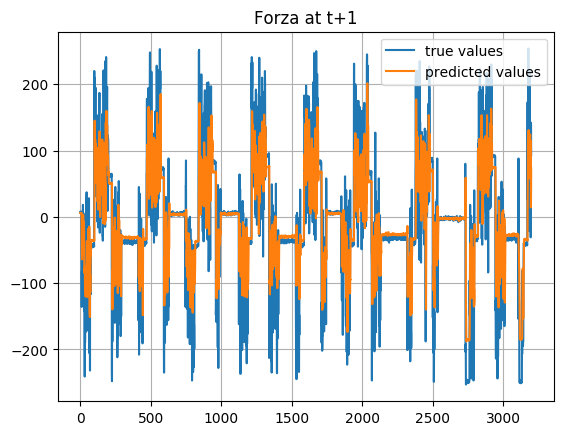
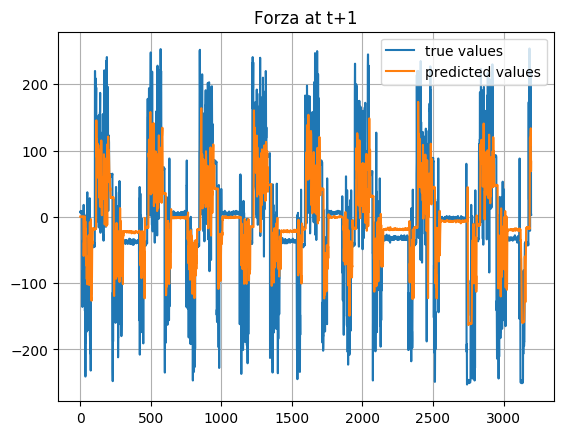
corrected small bug on rescale in case of future jumps. now nb_predictions * jumps can be > than total number of training set rows

Changed region(s): [[0.1199, 0.1195, 0.9594, 0.9264], [0.9295, 0.1195, 0.9594, 0.1494]]

diff --git a/gcornilib/DataManipulation/MLPrePostProcessing.py b/gcornilib/DataManipulation/MLPrePostProcessing.py
@@ -229,14 +229,11 @@ class DataBalancer(object):
         scaled_data = self._scaler.fit_transform(df_values)
         scaled_df = pd.DataFrame(scaled_data, columns=df_columns)
 
-        # Must be a DataFrame to exploit columns position information
-        self._helpers = scaled_df.copy()
-
+        # Save ordered list of columns to exploit columns position information
+        self._helpers = df_columns
         return scaled_df
 
     def rescale(self, predictions, columns):
-        # ASSUMPTION: DataSet rows are always >= than batched prediction rows
-
         # # # Here prediction is shaped (N, ts*targets)
 
         # Make sure scaling has been done before
@@ -257,7 +254,8 @@ class DataBalancer(object):
         # # Predicted time steps are collapsed within each feature column according to the same order
 
         # Fetch helper values for rescaling, as many rows as needed (nb_prediction_rows * nb_future_time_steps)
-        helper_df = self._helpers.head(predictions.shape[0]).copy()
+        helper_np = np.zeros((predictions.shape[0], len(self._helpers)))
+        helper_df = pd.DataFrame(helper_np, columns=self._helpers)
 
         # Put scaled predictions within the proper columns
         helper_df[columns] = predictions

diff --git a/gcornilib/Examples/lstm.py b/gcornilib/Examples/lstm.py
@@ -18,7 +18,7 @@ feat_shape = (PAST_STEPS//feat_steps, len(feat_ft))
 
 # Target Params
 targ_ft = ['Posizione', 'Forza']
-STEPS_AHEAD = 2
+STEPS_AHEAD = 3
 target_steps = 1
 targ_shape = (STEPS_AHEAD//target_steps, len(targ_ft))
 
@@ -40,8 +40,8 @@ if __name__ == "__main__":
               n_out=STEPS_AHEAD,
               features_filter=feat_ft,
               target_filter=targ_ft,
-              features_steps=1,
-              target_steps=1
+              features_steps=feat_steps,
+              target_steps=target_steps
               ) \
         .pipe(dm2.dataset_splitter,
               n_targets=reduce(np.multiply, targ_shape),

diff --git a/setup.py b/setup.py
@@ -5,7 +5,7 @@ with open("README.md", "r") as fh:
 
 setuptools.setup(
     name="gcornilib-horns-g",
-    version="1.0.0",
+    version="1.0.1",
     author="Gabriele Corni",
     author_email="gabriele_corni@iprel.it",
     description="Data manipulation pipeline for Machine Learning datasets",

diff --git a/README.md b/README.md
@@ -1,7 +1,7 @@
 # GCDataManipulationLib
 Data manipulation library to easily move from/to narrow/wide table representations. 
 
-**Current version:** gcornilib v1.0.0
+**Current version:** gcornilib v1.0.1
 
 **What's new?**
 
